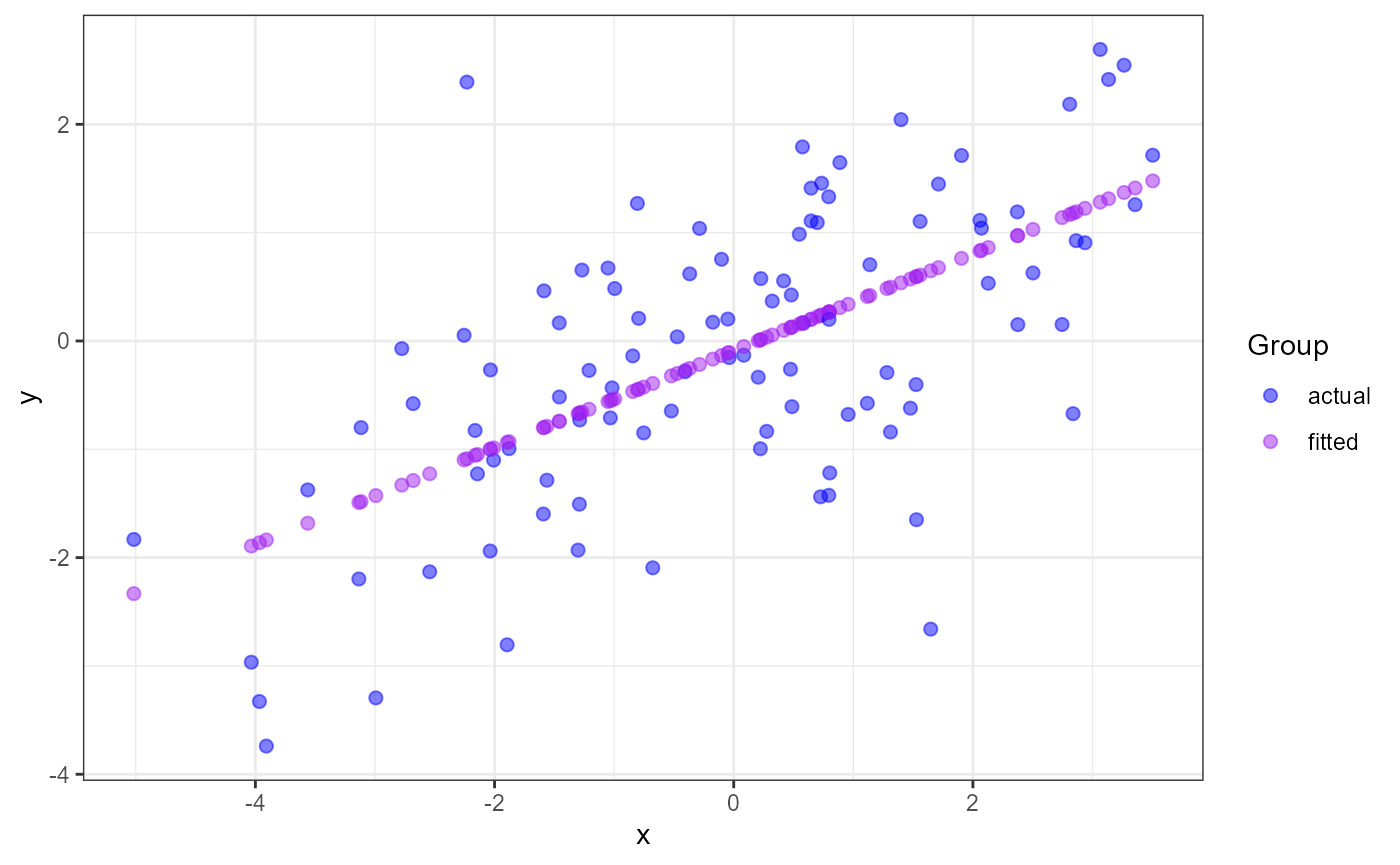
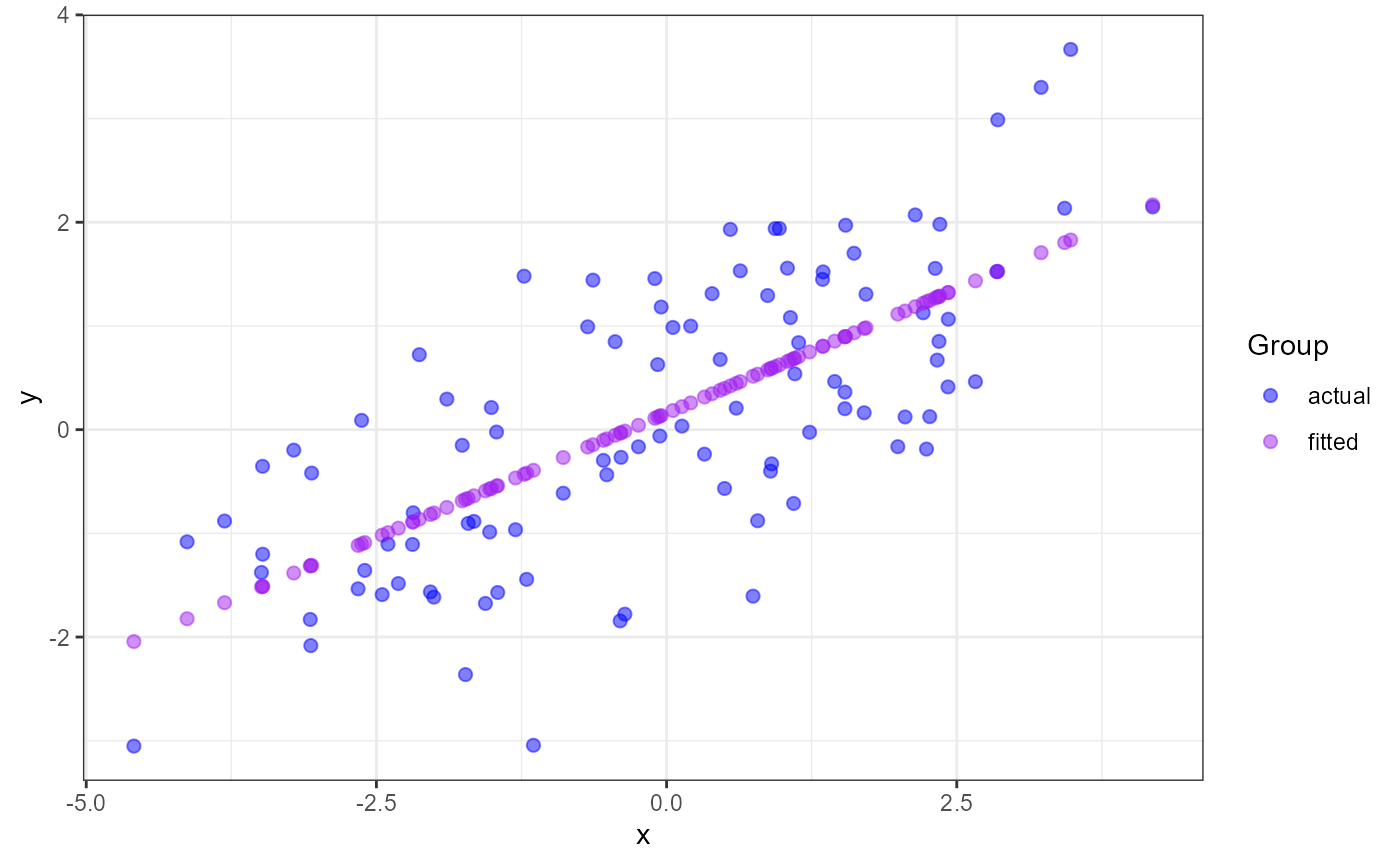
Solved cmd check warning

diff --git a/docs/articles/ggmatplot.html b/docs/articles/ggmatplot.html
@@ -101,7 +101,7 @@
 <span class="va">x</span> <span class="op">&lt;-</span> <span class="fu"><a href="https://rdrr.io/r/base/c.html">c</a></span><span class="op">(</span><span class="fu"><a href="https://rdrr.io/r/stats/Normal.html">rnorm</a></span><span class="op">(</span><span class="fl">100</span>, sd <span class="op">=</span> <span class="fl">2</span><span class="op">)</span><span class="op">)</span>
 
 <span class="fu"><a href="https://rdrr.io/r/utils/head.html">head</a></span><span class="op">(</span><span class="va">x</span><span class="op">)</span>
-<span class="co">#&gt; [1] -0.6770407 -0.8443402 -0.4072988  0.2755260 -0.7530531 -1.0317514</span>
+<span class="co">#&gt; [1] -2.4505953 -2.6006594 -0.4434259 -1.2279020  2.0543707  1.7020083</span>
 
 <span class="co"># matrix z</span>
 <span class="va">y</span> <span class="op">&lt;-</span> <span class="va">x</span> <span class="op">*</span> <span class="fl">0.5</span> <span class="op">+</span> <span class="fu"><a href="https://rdrr.io/r/stats/Normal.html">rnorm</a></span><span class="op">(</span><span class="fl">100</span>, sd <span class="op">=</span> <span class="fl">1</span><span class="op">)</span>
@@ -111,12 +111,12 @@
 
 <span class="fu"><a href="https://rdrr.io/r/utils/head.html">head</a></span><span class="op">(</span><span class="va">z</span><span class="op">)</span>
 <span class="co">#&gt;       actual      fitted</span>
-<span class="co">#&gt; 1 -2.0941158 -0.39193459</span>
-<span class="co">#&gt; 2 -0.1379005 -0.46675963</span>
-<span class="co">#&gt; 3 -0.2844814 -0.27129199</span>
-<span class="co">#&gt; 4 -0.8344582  0.03410277</span>
-<span class="co">#&gt; 5 -0.8486368 -0.42593130</span>
-<span class="co">#&gt; 6 -0.7103457 -0.55057966</span></code></pre></div>
+<span class="co">#&gt; 1 -1.5909924 -1.01721067</span>
+<span class="co">#&gt; 2 -1.3571287 -1.08920827</span>
+<span class="co">#&gt; 3  0.8482262 -0.05421321</span>
+<span class="co">#&gt; 4  1.4800865 -0.43058828</span>
+<span class="co">#&gt; 5  0.1226789  1.14417682</span>
+<span class="co">#&gt; 6  0.1627749  0.97512080</span></code></pre></div>
 <p><code>ggmatplot</code> plots vector <code>x</code> against each column of matrix <code>z</code> using the default <code>plot_type = "point"</code>. This will be represented on the resulting plot as two groups, identified using different shapes and colors.</p>
 <div class="sourceCode" id="cb2"><pre class="downlit sourceCode r">
 <code class="sourceCode R"><span class="kw"><a href="https://rdrr.io/r/base/library.html">library</a></span><span class="op">(</span><span class="va"><a href="https://github.com/xuan-liang/ggmatplot">ggmatplot</a></span><span class="op">)</span>

diff --git a/docs/reference/ggmatplot.html b/docs/reference/ggmatplot.html
@@ -241,9 +241,9 @@ those that can be passed on to the <a href='#plot-types'>underlying ggplot layer
 
 
 <p><code>ggmatplot</code>plots are built upon <code>ggplot2 layers</code>. The following is a list of
-<code>ggmatplot</code> plot types, along with their underlying <code>ggplot geoms</code>
-(https://ggplot2.tidyverse.org/reference/index.html#section-geoms) or
-<a href='https://ggplot2.tidyverse.org/reference/index.html#section-stats'><code>stats</code></a>.</p><ul>
+<code>ggmatplot</code> plot types, along with their underlying
+<a href='https://ggplot2.tidyverse.org/reference/index.html#section-geoms'><code>ggplot geoms</code></a>
+or <a href='https://ggplot2.tidyverse.org/reference/index.html#section-stats'><code>stats</code></a>.</p><ul>
 <li><p><strong>point</strong> <code><a href='https://ggplot2.tidyverse.org/reference/geom_point.html'>geom_point</a></code></p></li>
 <li><p><strong>line</strong> <code><a href='https://ggplot2.tidyverse.org/reference/geom_path.html'>geom_line</a></code></p></li>
 <li><p><strong>both</strong> <code><a href='https://ggplot2.tidyverse.org/reference/geom_point.html'>geom_point</a></code> +
